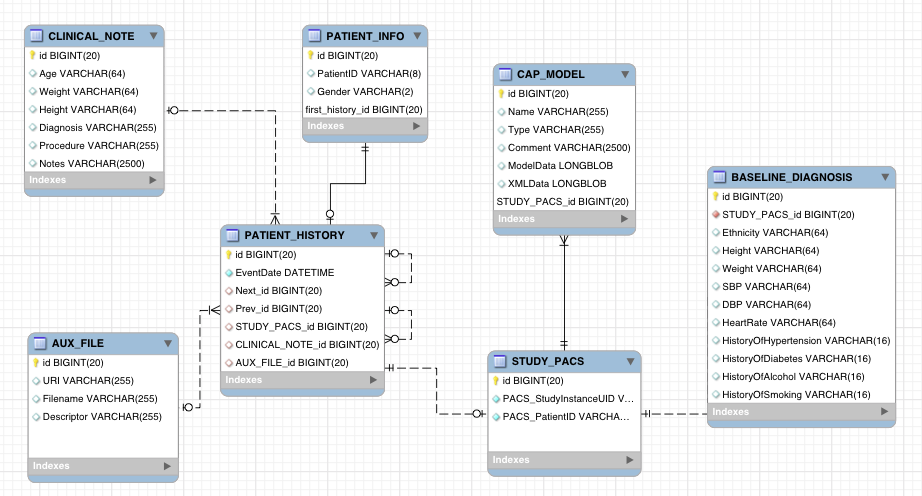
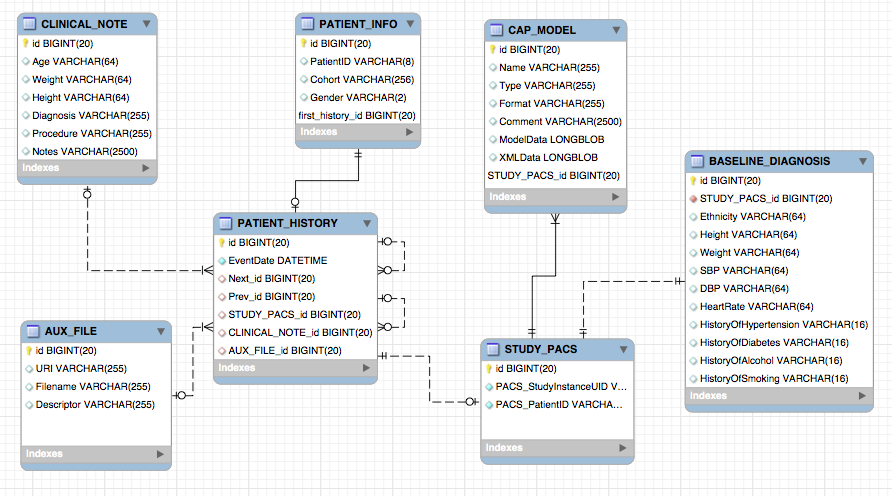
Update

diff --git a/README.md b/README.md
@@ -13,13 +13,24 @@ Both databases are implemented in MySQL database server.
 **XPACS schema (ver 0.2)**
 ![xpacs](dbase/schema/xpacs-schema-0.2.png)
 
-Two main tables defined in XPACS:
+Table description:
 
-1. **STUDY_PACS** which links to PACS' study_iuid row in the STUDY table. The STUDY_PACS table is used to attached metadata information to a study. One example is the CAP's LV models, which are stored in CAP_MODEL table. Each model is linked with a study.
+1. **PATIENT_INFO** contains unique PatientID list. The PatientID is the first 8 digits of CAP IDs because the last 2 digits of CAP IDs contains follow up imaging sessions. For examples, XYZ0001501, XYZ0001502 are the same patient with ID = XYZ00015. This patient has 2 imaging sessions in the PACS database.PATIENT_INFO only stores one row for this patient.
 
-1. **PATIENT_HISTORY** which loosely link to PACS' patient_id in the PATIENT table. The PATIENT_HISTORY table implements double-linked list of clinical events. If an event does not have an associated scan, then PACS_patient_id value is NULL. Chain events are linked through forward next_id and backward prev_id values. NULL values determines the end of the chain.
+   There is a link to the first chain of PATIENT_HISTORY table with `first_history_id` column (NULL is allowed).
 
-   Two tables are attached to PATIENT_HISTORY: CLINICAL_NOTE (all diagnostic information) and AUX_FILE (additional extra files, such as PDF, JPG, etc.). Files are stored externally by using [URI] locator.
+1. **PATIENT_HISTORY** contains double-linked chains of events with `Next_id` and `Prev_id` columns (NULL value states the end of the chain). Each event may contain a clinical note (CLINICAL_NOTE), auxiliary file (AUX_FILE) or imaging session (STUDY_PACS).
+
+1. **CLINICAL_NOTE*** contains an event diagnostic notes. It is generic table.
+
+1. **AUX_FILE** contains links to external files. It can be PDF notes, echocardiography, etc.
+
+1. **STUDY_PACS** which links to study_iud row in the PACS' STUDY table (see above). This is not a complete list of studies from PACS database, but as an attachment of either an event in the PATIENT_HISTORY table, or a heart model in the CAP_MODEL table, or a baseline diagostic in the BASELINE_DIAGNOSIS table.
+
+1. **CAP_MODEL** contains a model of the heart. This table is generic to hold any model format. The definition is in the `ModelData` column which is a binary ZIP file and model's XML metadata information is stored in the `XMLData` column.
+
+1. **BASELINE_DIAGNOSIS** contains some common lab report attached to an imaging session.
+
 
 <!-- URLs -->
 [DCM4CHE]: http://dcm4che.org/
